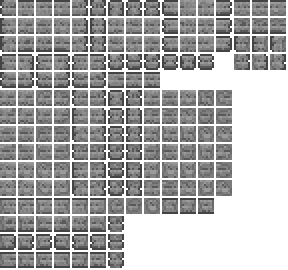
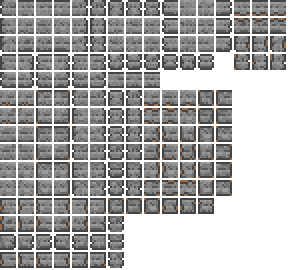
Add files via upload

diff --git a/Divinity/Tiles/DivineBiome/DivineGrassTile.cs b/Divinity/Tiles/DivineBiome/DivineGrassTile.cs
@@ -13,7 +13,8 @@ namespace Divinity.Tiles.DivineBiome
         {
             Main.tileSolid[Type] = true;
             AddMapEntry(new Color(250, 100, 100));
-            Main.tileMerge[Type][mod.TileType("DivineDirtTile")] = true;
+            Main.tileMerge[mod.TileType("DivineDirtTile")][Type] = true;
+            Main.tileMerge[mod.TileType("DivineGrassTile")][Type] = true;
         }
         public override int SaplingGrowthType(ref int style)
         {

diff --git a/Divinity/Tiles/DivineBiome/DivineWoodTile.cs b/Divinity/Tiles/DivineBiome/DivineWoodTile.cs
@@ -12,6 +12,8 @@ namespace Divinity.Tiles.DivineBiome
         {
             Main.tileSolid[Type] = true;
             Main.tileMergeDirt[Type] = true;
+            Main.tileMerge[mod.TileType("DivineGrassTile")][Type] = true;
+            Main.tileMerge[mod.TileType("DivineDirtTile")][Type] = true;
             dustType = 53;
             soundType = 0;
             soundStyle = 2;

diff --git a/Divinity/Tiles/DivineBiome/DivineDirtTile.cs b/Divinity/Tiles/DivineBiome/DivineDirtTile.cs
@@ -12,6 +12,7 @@ namespace Divinity.Tiles.DivineBiome
         {
             Main.tileSolid[Type] = true;
             Main.tileMergeDirt[Type] = true;
+            Main.tileMerge[mod.TileType("DivineGrassTile")][Type] = true;
             dustType = 53;
             soundType = 0;
             soundStyle = 2;
